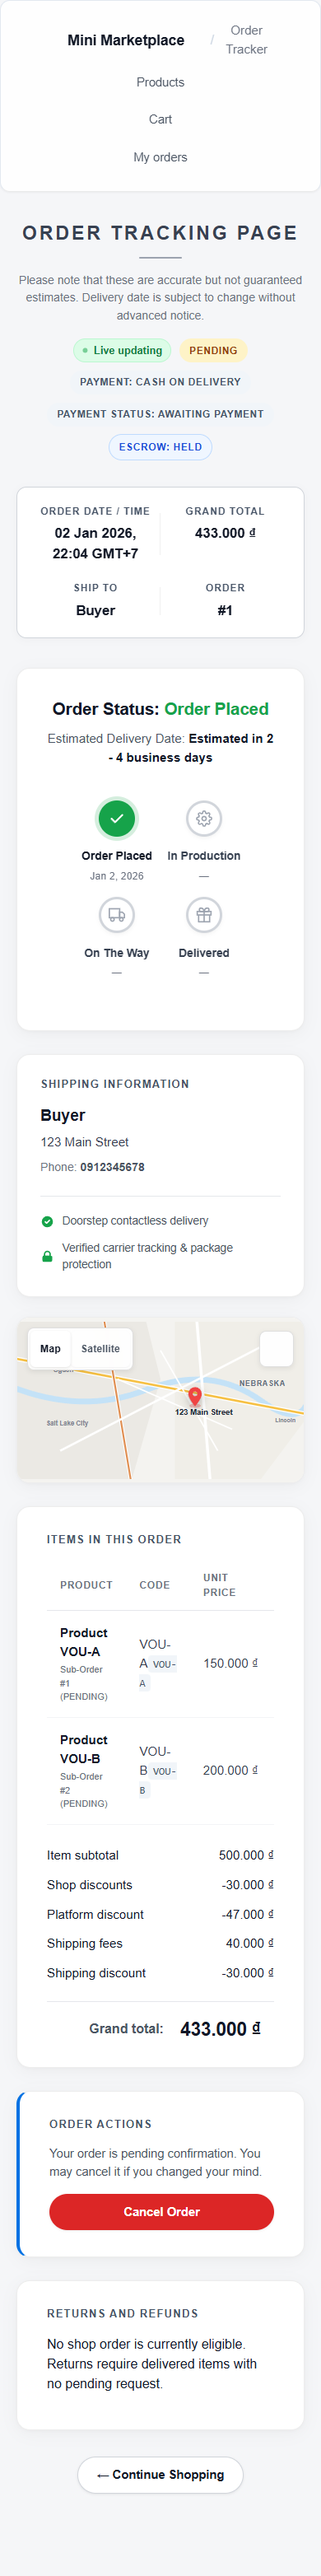
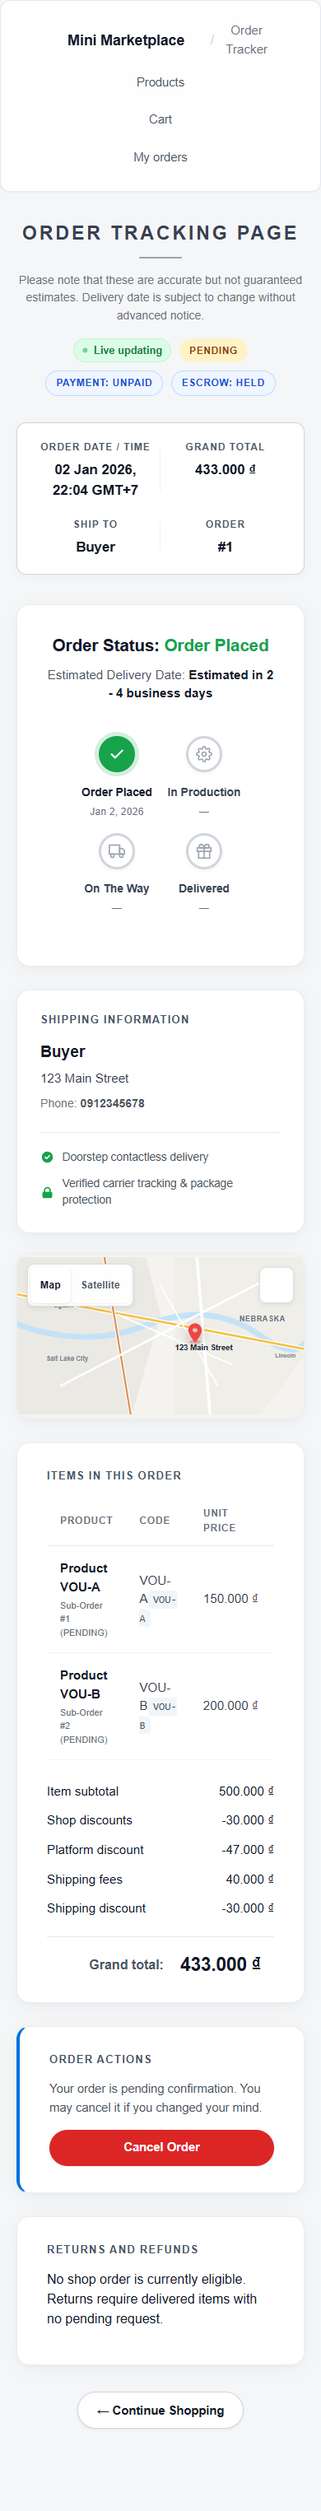
[#159] Display recorded order date and pricing summary
Show creation time with timezone and the persisted grand total, with reconciled pricing snapshots and legacy fallback. Add browser regressions, documentation and screenshots.

Validation: 163 related tests passed, including 7 real Chrome cases; Ruff, JavaScript syntax, buyer-return UI checks and diff checks passed.

AI assistance: OpenAI Codex assisted with implementation, tests, documentation and verification.

diff --git a/tests/test_order_summary_browser.py b/tests/test_order_summary_browser.py
@@ -145,10 +145,6 @@ def test_persisted_date_time_and_multishop_price_breakdown(browser, api, engine,
         view.open(order_id)
         page = view.page
         expect(page.locator("#summary-metrics-bar")).to_be_visible()
-        expect(page.locator("#badge-payment-method")).to_have_text("Payment: Cash on delivery")
-        expect(page.locator("#badge-payment-status")).to_have_text(
-            "Payment status: Awaiting payment",
-        )
         expect(page.locator("#order-placed-val")).to_contain_text("22:04")
         expect(page.locator("#order-placed-val")).to_contain_text("2026")
         expect(page.locator("#order-placed-val")).to_contain_text("GMT+7")

diff --git a/docs/testing.md b/docs/testing.md
@@ -446,3 +446,28 @@ git diff --check
 This slice adds no new browser behavior or dependency. Visual review at the
 existing responsive breakpoints is still separate from these automated checks.
 
+## Issue #159: recorded order date and total
+
+`tests/test_order_summary_browser.py` executes the production order page in
+Chromium/Chrome, routes requests through real FastAPI handlers, and uses fresh
+SQLite files. Third-party map resources are blocked; map rendering is outside this
+fix. Prices and timestamps below are independent expected purchase facts.
+
+| Case | Expected result |
+|---|---|
+| Two shops, vouchers, catalog edited after purchase; 390/768/1280 px; reload | Stored 2026-01-02 15:04 UTC displays as 22:04 GMT+7; grand total is 433,000 VND with no viewport overflow |
+| Real zero-total voucher checkout | Grand total is 0 VND and zero discounts remain 0 |
+| Switch discounted order and legacy-pricing order | Stored totals and breakdowns reload correctly; unavailable legacy explanation is visible |
+| Detail read fails, then Retry succeeds | Summary stays hidden on failure; Retry displays the receipt |
+| Another authenticated buyer opens the order URL | API denies access; no summary or item details are shown |
+
+Run with Python 3.12, README dependencies, Playwright, and installed Chrome:
+
+```powershell
+python -m pytest tests/test_order_summary_browser.py -q
+python -m ruff check tests/test_order_summary_browser.py
+node --check src/web/static/order.js
+git diff --check
+```
+
+Set `UPDATE_ORDER_SUMMARY_SCREENSHOTS=1` to regenerate deterministic screenshots.

diff --git a/docs/traceability.md b/docs/traceability.md
@@ -661,3 +661,12 @@ Exclusions: page-specific visual redesign, new frontend dependencies, and
 backend/API behavior. Browser screenshots and human review remain delivery
 evidence, not claims made by this local implementation.
 
+## Order detail date/time and recorded total (#159)
+
+The order detail page displays the persisted creation date/time and grand total,
+distinguishing recorded price components where available. The existing receipt API
+enforces buyer ownership. Browser coverage verifies recorded prices, zero totals,
+legacy fallback, reload/retry behavior, responsive layouts and ownership denial.
+
+Exclusions: payment selection/display, pricing changes, new API fields, migrations,
+third-party map rendering and seller-dashboard changes.
